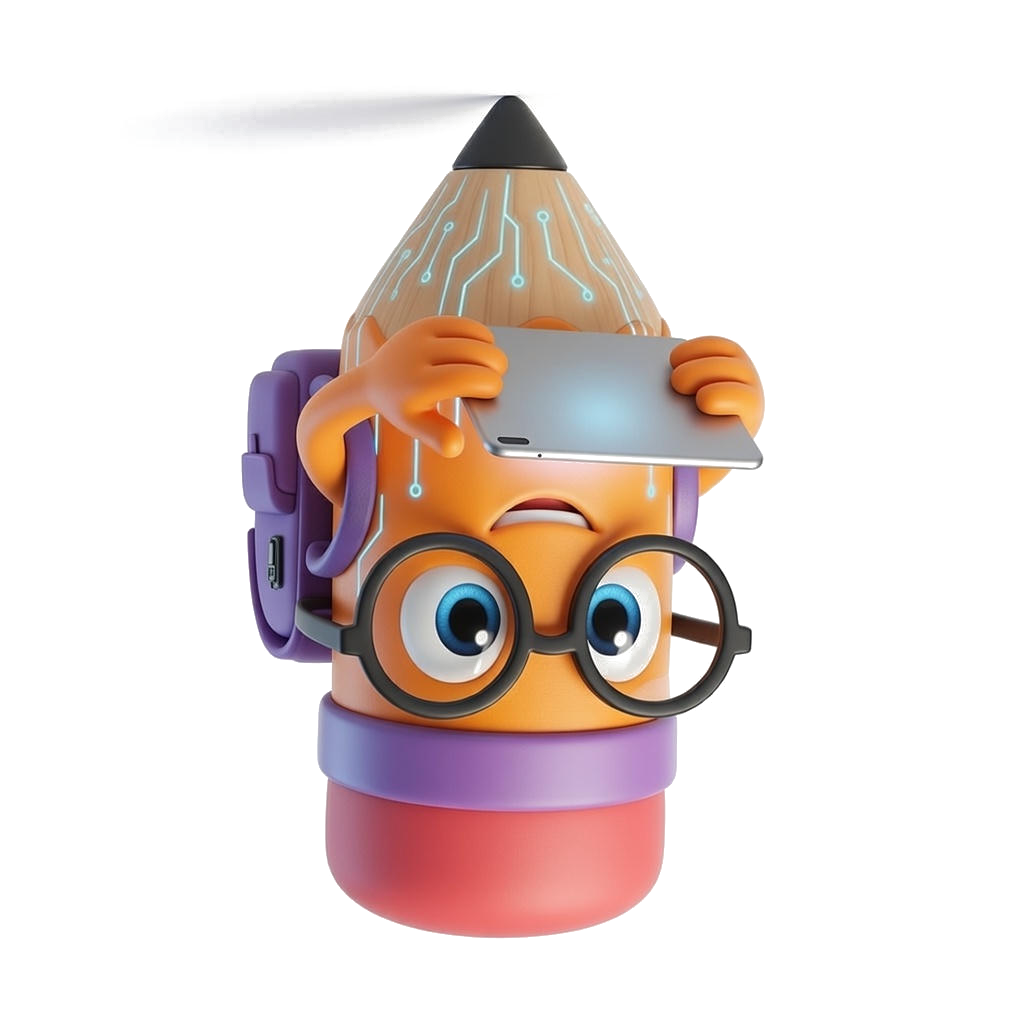
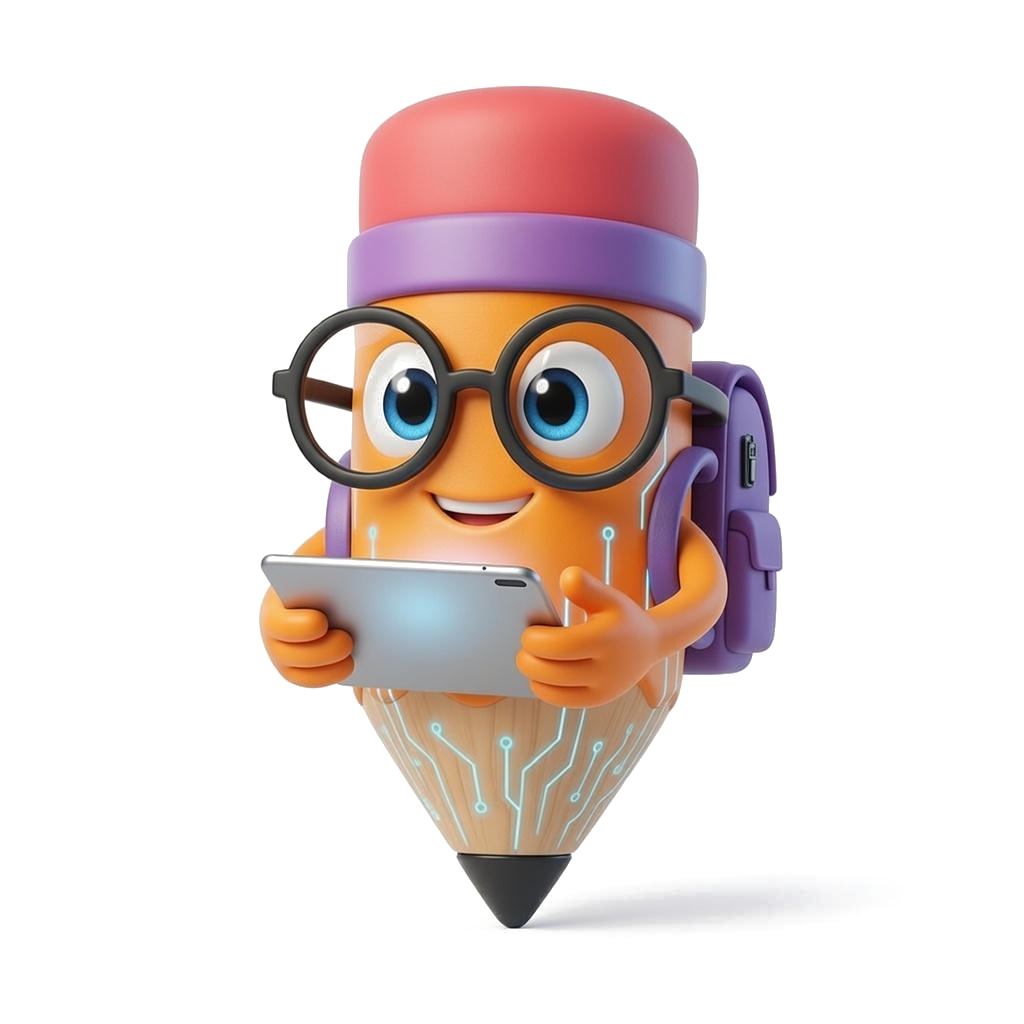
fix: restore right-side-up mascot for Teachers Landing Page and revert Main Landing Page hero image to original mascot

diff --git a/src/Landing.tsx b/src/Landing.tsx
@@ -317,8 +317,8 @@ export default function Home() {
         <div className="hero-mascot flex-1 w-full relative h-[400px] md:h-[650px] flex justify-center md:justify-end items-center">
           <div className="absolute top-1/2 left-1/2 -translate-x-1/2 -translate-y-1/2 w-full max-w-[480px] aspect-square bg-brand/20 rounded-full blur-[120px]" />
           <img
-            src="/assets/schools/chekki_holding_laptop_transparent.png"
-            alt="Chekki Mascot holding laptop"
+            src="https://res.cloudinary.com/dginphpy4/image/upload/e_background_removal,f_png/v1771383933/Chekki_Futuristic_Background_i8foqe.png"
+            alt="Chekki Mascot"
             className="w-full max-w-[440px] md:max-w-[500px] h-auto object-contain drop-shadow-[0_20px_50px_rgba(249,115,22,0.3)] relative z-10 group-hover:scale-105 transition-transform duration-700"
           />
         </div>

diff --git a/web/src/app/page.tsx b/web/src/app/page.tsx
@@ -320,8 +320,8 @@ export default function Home() {
         <div className="hero-mascot flex-1 w-full relative h-[400px] md:h-[650px] flex justify-center md:justify-end items-center">
           <div className="absolute top-1/2 left-1/2 -translate-x-1/2 -translate-y-1/2 w-full max-w-[480px] aspect-square bg-brand/20 rounded-full blur-[120px]" />
           <img
-            src="/assets/schools/chekki_holding_laptop_transparent.png"
-            alt="Chekki Mascot holding laptop"
+            src="https://res.cloudinary.com/dginphpy4/image/upload/e_background_removal,f_png/v1771383933/Chekki_Futuristic_Background_i8foqe.png"
+            alt="Chekki Mascot"
             className="w-full max-w-[440px] md:max-w-[500px] h-auto object-contain drop-shadow-[0_20px_50px_rgba(249,115,22,0.3)] relative z-10 group-hover:scale-105 transition-transform duration-700"
           />
         </div>

diff --git a/components/ChekkiAiBentoGrid.tsx b/components/ChekkiAiBentoGrid.tsx
@@ -280,8 +280,8 @@ export default function ChekkiAiBentoGrid({ isNight = true, isKo = false }: Prop
                 }`} />
                 
                 <img 
-                  src="/assets/schools/chekki_teacher_mascot_transparent.png" 
-                  alt="Chekki Mascot holding laptop" 
+                  src="https://res.cloudinary.com/dginphpy4/image/upload/e_background_removal,f_png/v1771383933/Chekki_Futuristic_Background_i8foqe.png" 
+                  alt="Chekki Mascot" 
                   className="w-full h-full object-contain relative z-10 drop-shadow-[0_15px_35px_rgba(249,115,22,0.4)] group-hover:scale-105 transition-transform duration-700"
                 />
               </div>

diff --git a/web/src/components/ChekkiAiBentoGrid.tsx b/web/src/components/ChekkiAiBentoGrid.tsx
@@ -280,8 +280,8 @@ export default function ChekkiAiBentoGrid({ isNight = true, isKo = false }: Prop
                 }`} />
                 
                 <img 
-                  src="/assets/schools/chekki_teacher_mascot_transparent.png" 
-                  alt="Chekki Mascot holding laptop" 
+                  src="https://res.cloudinary.com/dginphpy4/image/upload/e_background_removal,f_png/v1771383933/Chekki_Futuristic_Background_i8foqe.png" 
+                  alt="Chekki Mascot" 
                   className="w-full h-full object-contain relative z-10 drop-shadow-[0_15px_35px_rgba(249,115,22,0.4)] group-hover:scale-105 transition-transform duration-700"
                 />
               </div>
